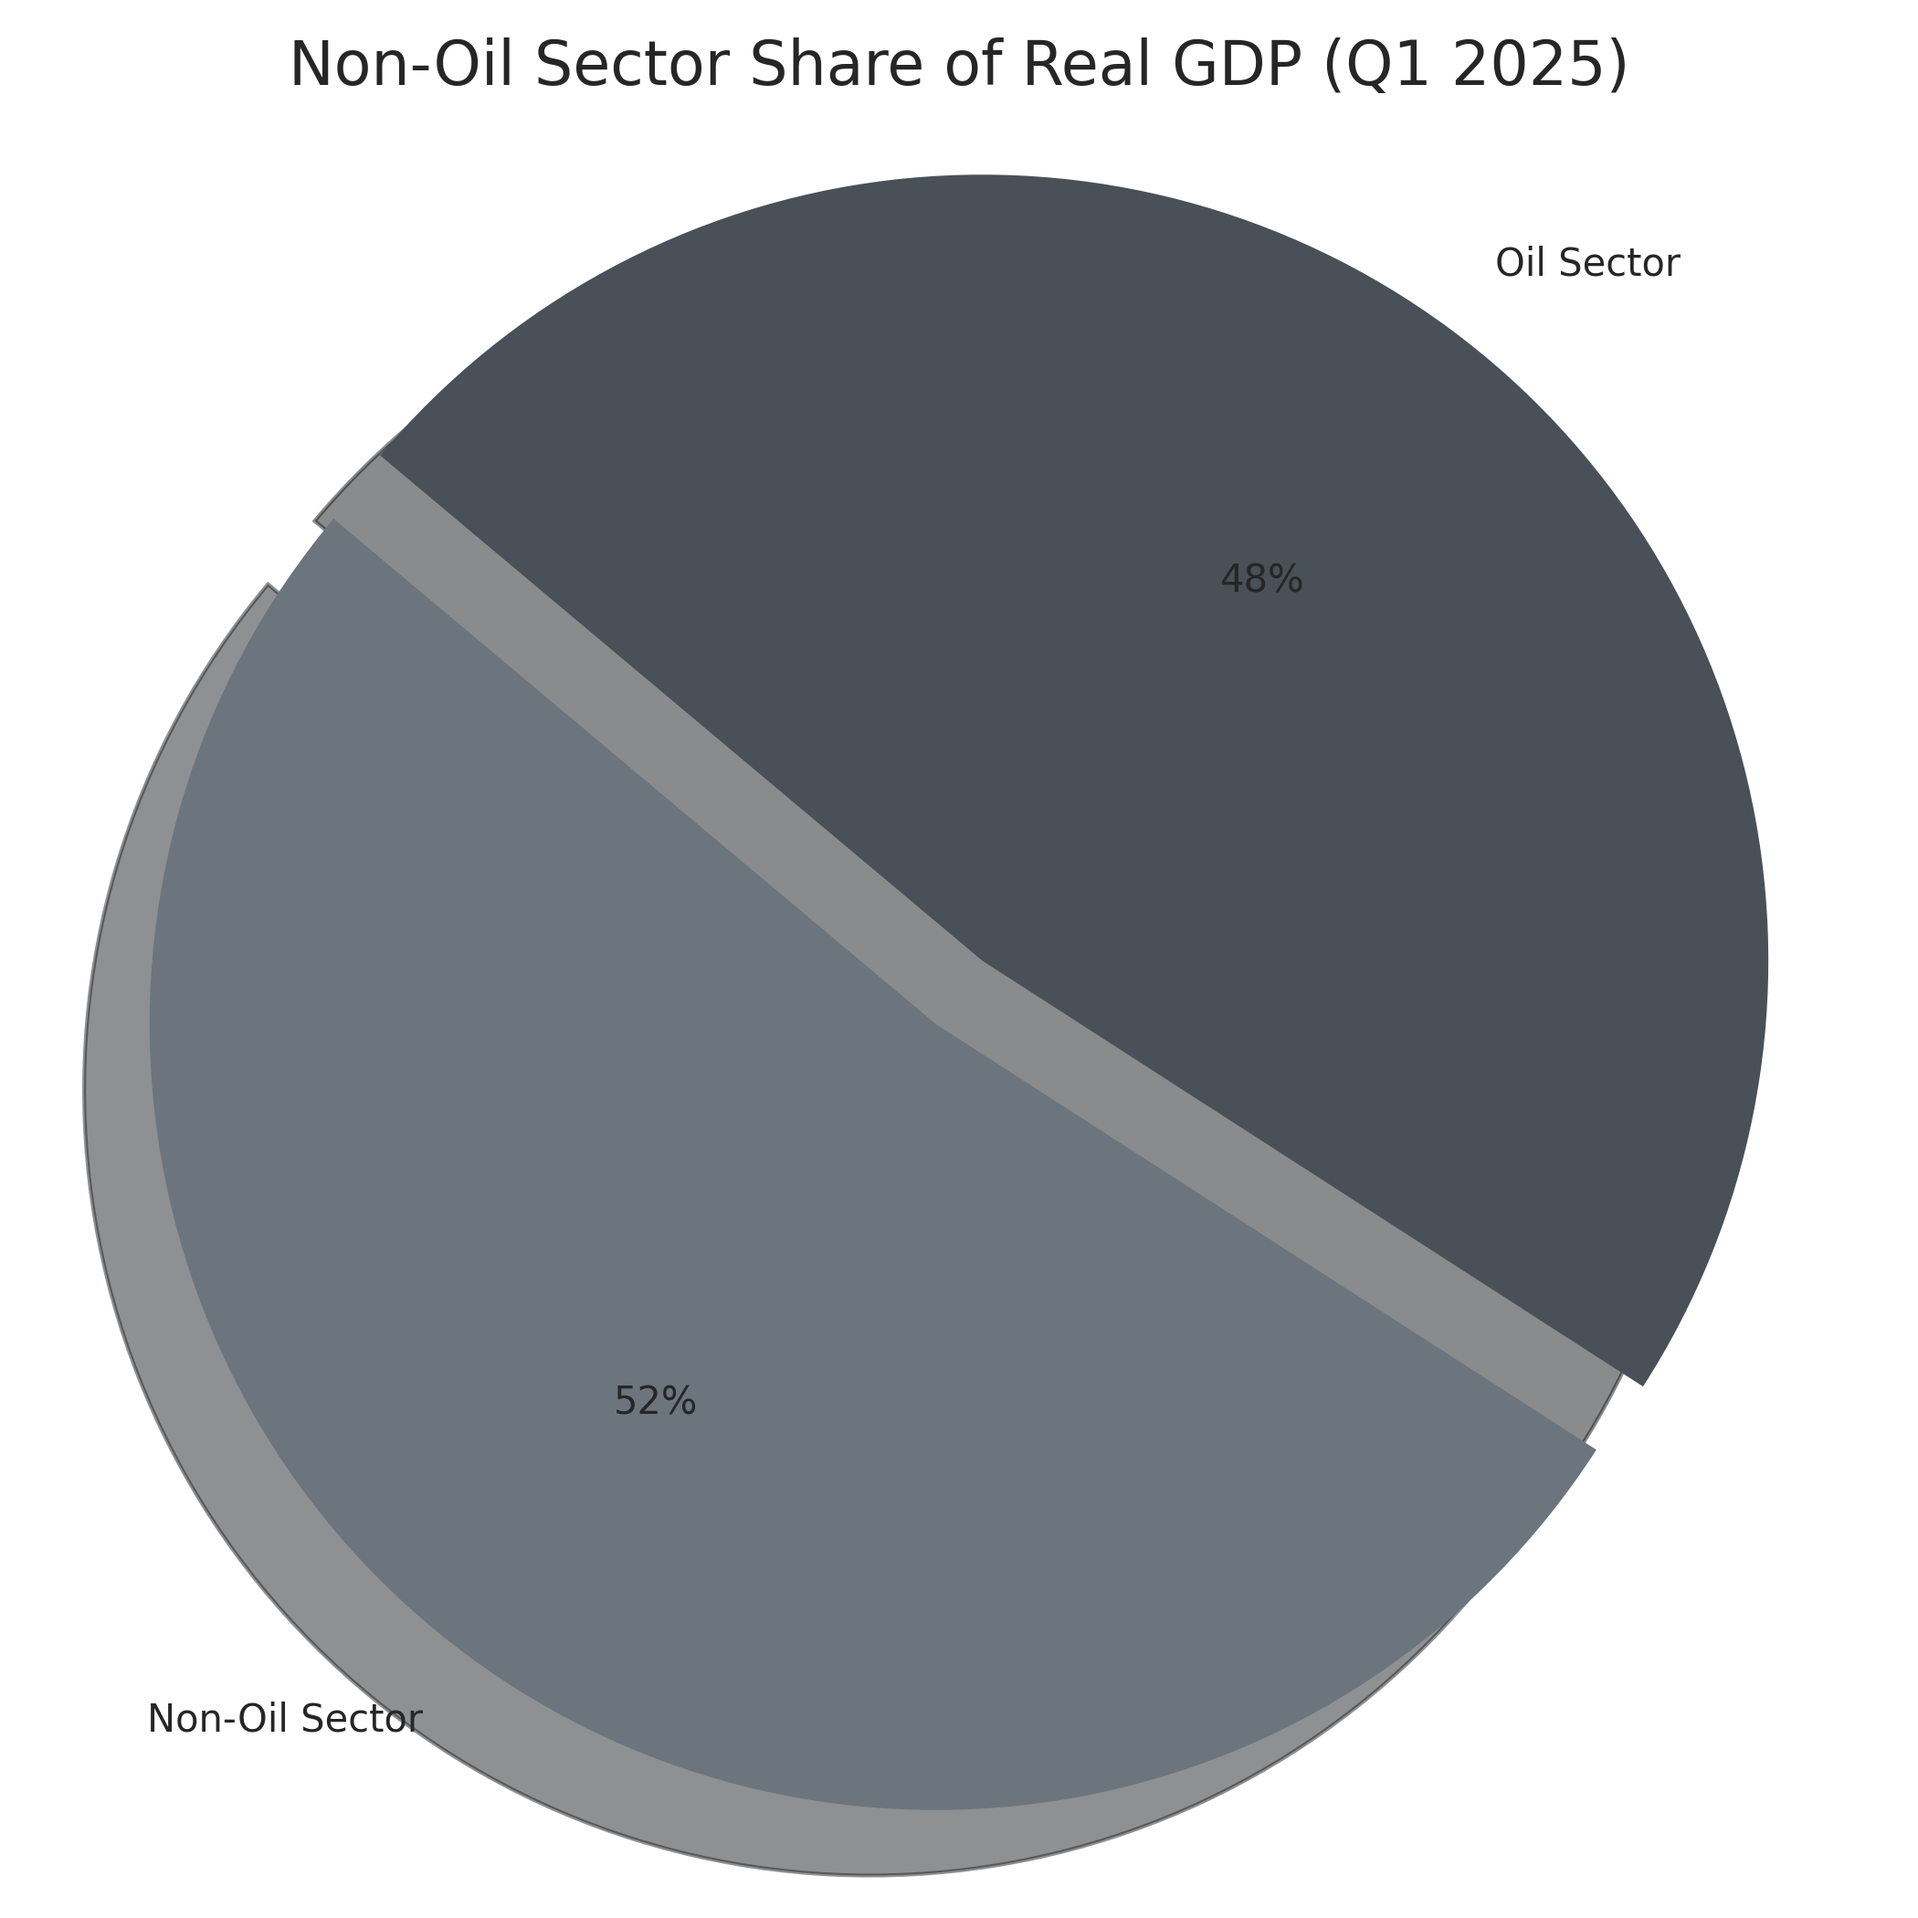
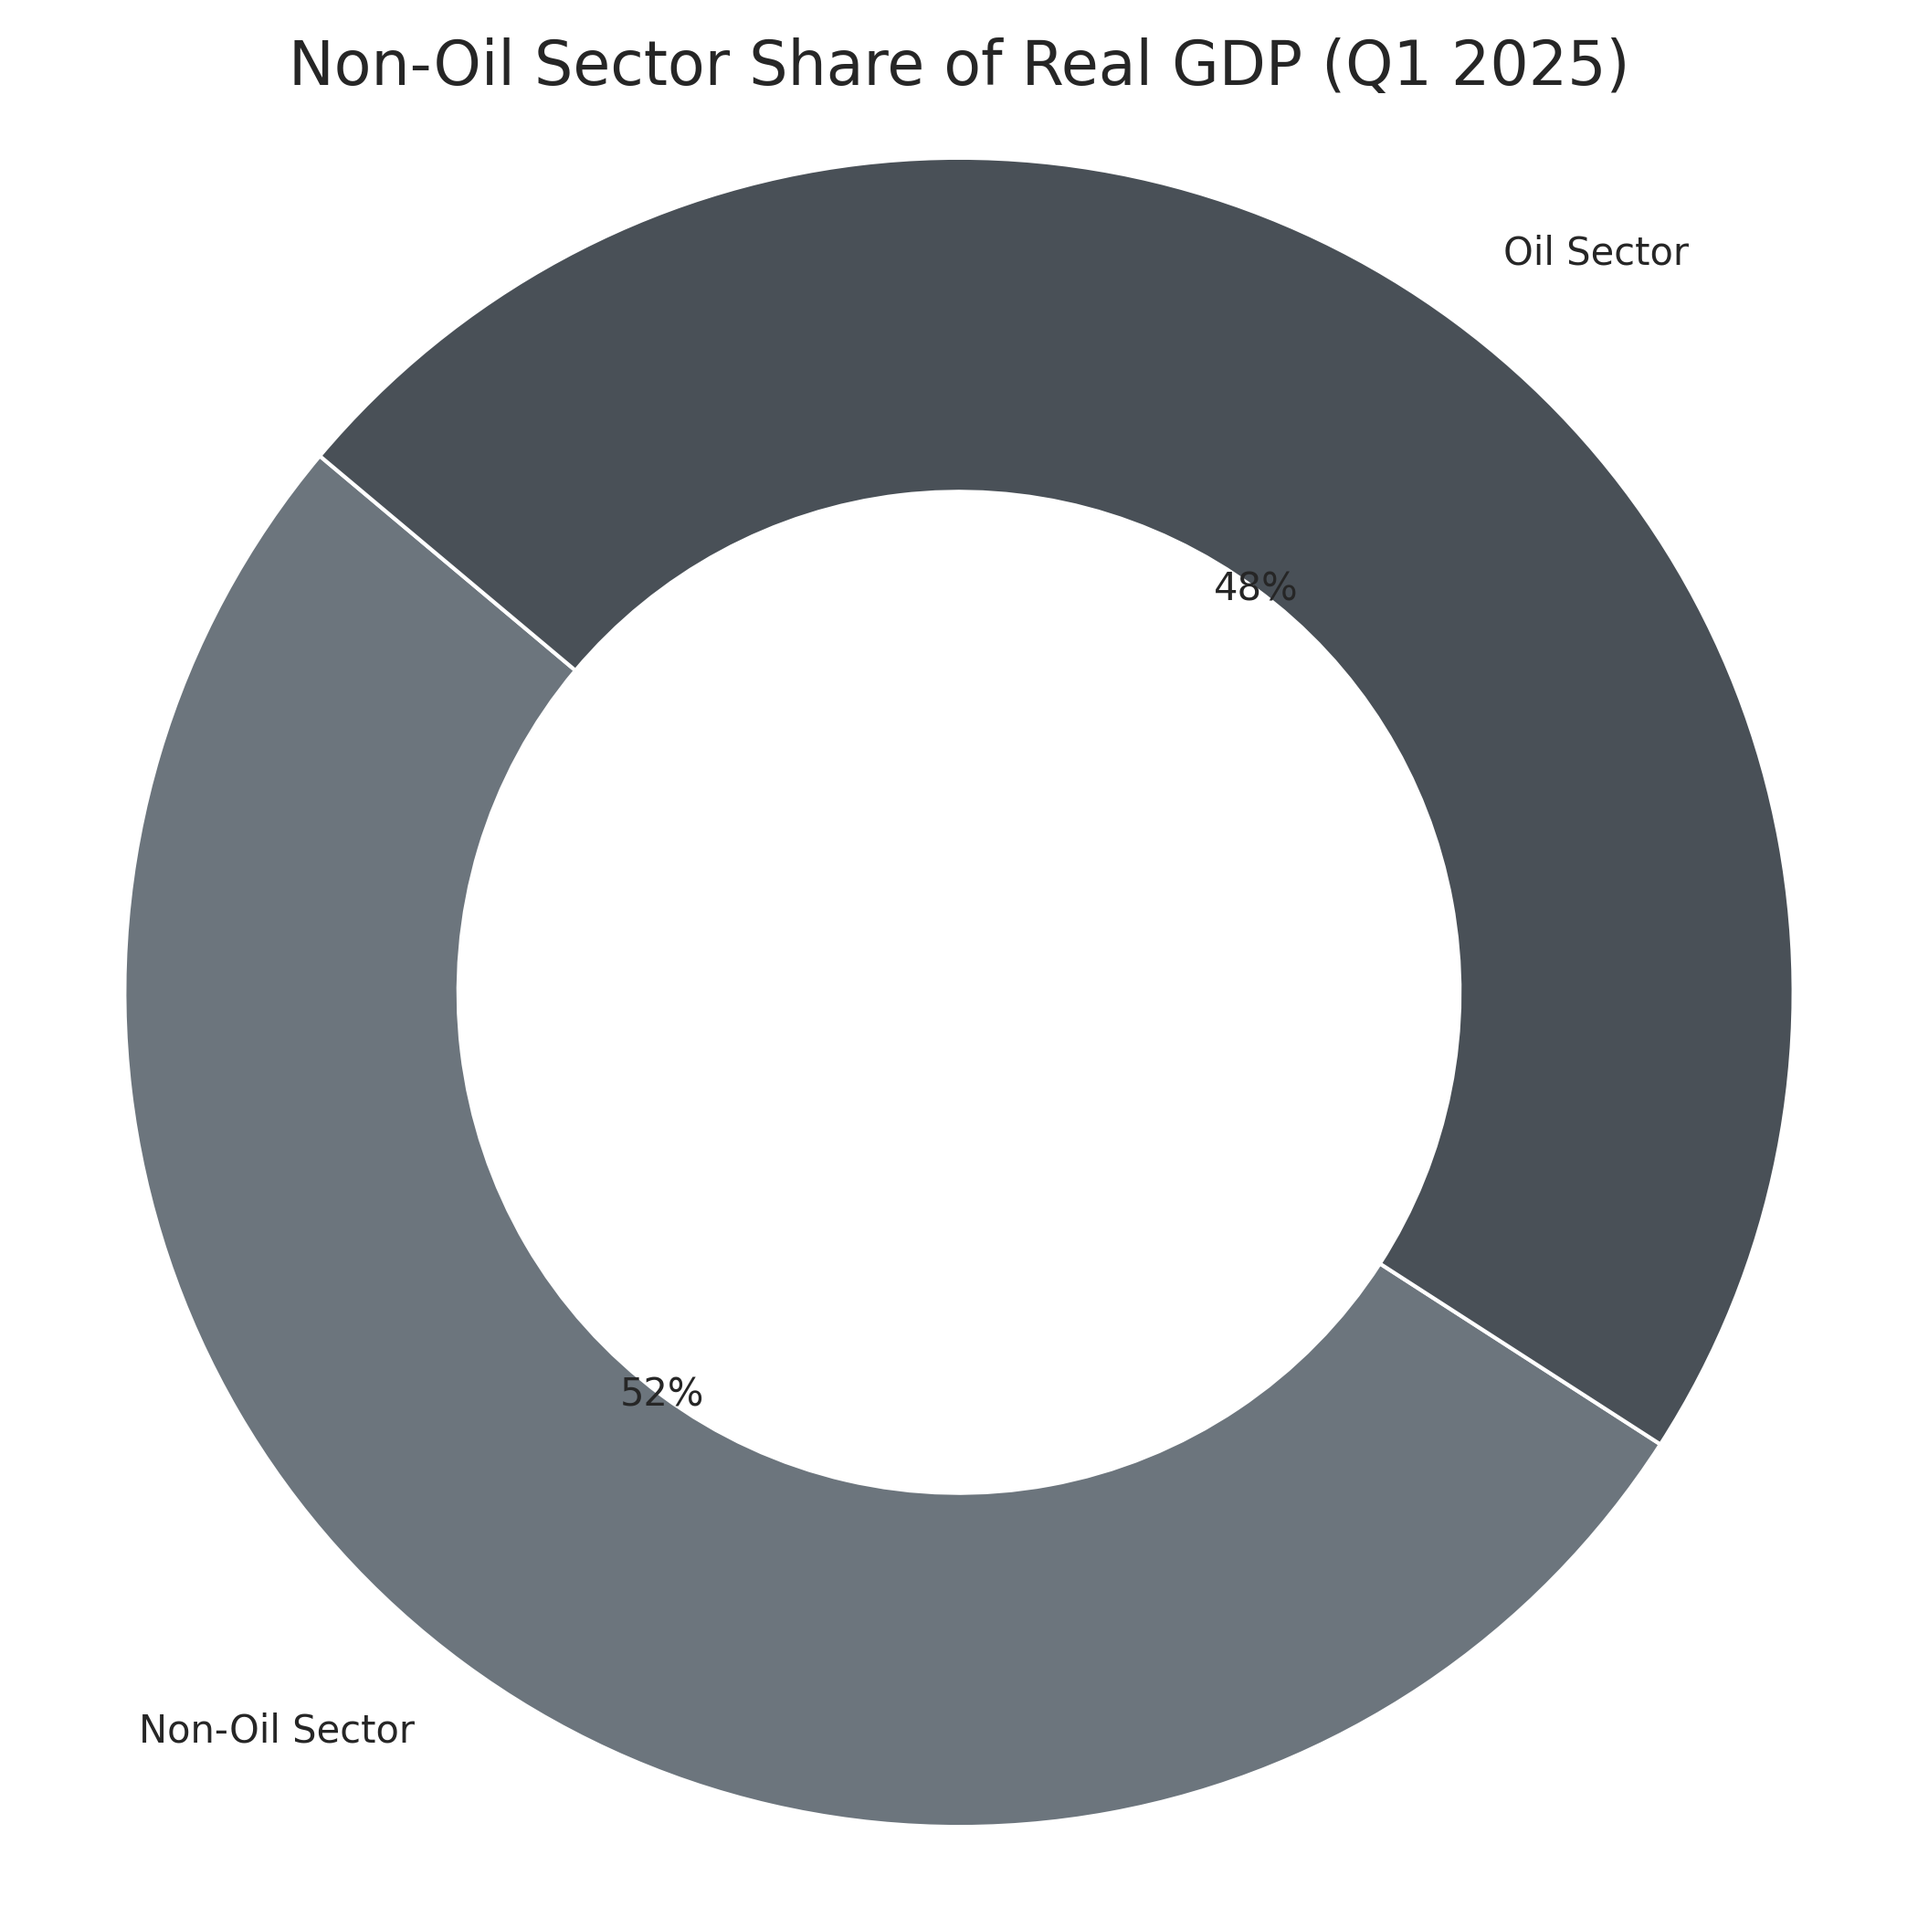
feat: Add private market players analysis and refine charts

diff --git a/public/KSA-healthcare/index.html b/public/KSA-healthcare/index.html
@@ -95,6 +95,159 @@
             </div>
         </section>
 
+    {/* Section 6.5: Key Private Market Players */}
+<section id="private-players">
+    <h2>Key Private Market Players: Saudi Arabia Healthcare Sector</h2>
+
+    <h3>Market Leaders by Revenue and Scale</h3>
+    <h4>Top 5 Private Healthcare Companies (2024 Rankings)</h4>
+    <table class="data-table">
+        <thead>
+            <tr>
+                <th>Rank</th>
+                <th>Company</th>
+                <th>2024 Revenue</th>
+                <th>Market Share</th>
+                <th>Key Strengths</th>
+            </tr>
+        </thead>
+        <tbody>
+            <tr>
+                <td>1</td>
+                <td><strong>Dr. Sulaiman Al Habib Medical Group (HMG)</strong></td>
+                <td>SAR 11.6B ($3.1B)</td>
+                <td>~35%</td>
+                <td>Market leader, rapid expansion</td>
+            </tr>
+            <tr>
+                <td>2</td>
+                <td><strong>Dallah Healthcare Company</strong></td>
+                <td>SAR 3.2B ($854M)</td>
+                <td>~12%</td>
+                <td>Strong profitability, Eastern acquisitions</td>
+            </tr>
+            <tr>
+                <td>3</td>
+                <td><strong>Fakeeh Care Group</strong></td>
+                <td>SAR 2.8B ($747M)</td>
+                <td>~10%</td>
+                <td>Integrated model, education focus</td>
+            </tr>
+            <tr>
+                <td>4</td>
+                <td><strong>Mouwasat Medical Services</strong></td>
+                <td>SAR 2.9B ($773M)</td>
+                <td>~9%</td>
+                <td>Eastern Province dominance</td>
+            </tr>
+            <tr>
+                <td>5</td>
+                <td><strong>Al Hammadi Holding</strong></td>
+                <td>SAR 1.8B ($480M)</td>
+                <td>~6%</td>
+                <td>Premium positioning, Riyadh focus</td>
+            </tr>
+        </tbody>
+    </table>
+    <p class="table-note"><em>*Note: Market share percentages based on private sector healthcare revenue.</em></p>
+
+    <hr class="section-divider" />
+
+    {/* Player Profiles */}
+    <div class="player-profile">
+        <h3>1. Dr. Sulaiman Al Habib Medical Group (HMG)</h3>
+        <h4>Financial Performance</h4>
+        <ul>
+            <li><strong>2024 Revenue:</strong> SAR 11.6 billion (+22% YoY)</li>
+            <li><strong>H1 2025 Revenue:</strong> SAR 6.54 billion (+28% YoY)</li>
+            <li><strong>Net Profit 2024:</strong> SAR 2.1 billion (+18% YoY)</li>
+            <li><strong>EBITDA Margin:</strong> 25.8% (Q1 2025)</li>
+        </ul>
+        <h4>Growth Strategy & Expansion</h4>
+        <ul>
+            <li><strong>Capacity Doubling:</strong> Adding 8 new hospitals post-2023 (+1,180 beds)</li>
+            <li><strong>New Facilities:</strong> North Riyadh Hospital (500 beds), Southwest Jeddah Hospital (330 beds)</li>
+        </ul>
+    </div>
+
+    <hr class="section-divider" />
+
+    <div class="player-profile">
+        <h3>2. Dallah Healthcare Company</h3>
+        <h4>Financial Performance</h4>
+        <ul>
+            <li><strong>2024 Revenue:</strong> SAR 3.2 billion (+8.9% YoY)</li>
+            <li><strong>Net Profit 2024:</strong> SAR 471 million (+31% YoY)</li>
+            <li><strong>Gross Profit Margin:</strong> 38.1% (highest in sector)</li>
+        </ul>
+        <h4>Strategic Acquisitions & Expansion</h4>
+        <ul>
+            <li><strong>Eastern Province Focus:</strong> Consolidating AlSalam and AlAhsa hospitals</li>
+            <li><strong>Capacity Expansion:</strong> ~80% increase over current capacity planned</li>
+        </ul>
+    </div>
+
+    <hr class="section-divider" />
+
+    <div class="player-profile">
+        <h3>3. Fakeeh Care Group</h3>
+        <h4>Financial Performance</h4>
+        <ul>
+            <li><strong>2024 Revenue:</strong> SAR 2.8 billion (+20% YoY)</li>
+            <li><strong>Net Profit 2024:</strong> SAR 264 million (+36% YoY)</li>
+        </ul>
+        <h4>Integrated Healthcare Model</h4>
+        <ul>
+            <li><strong>Three Pillars:</strong> Healthcare Services, Medical Education, Technology</li>
+            <li><strong>Educational Component:</strong> Fakeeh College with 2,190 student capacity</li>
+        </ul>
+    </div>
+
+    <hr class="section-divider" />
+
+    <div class="player-profile">
+        <h3>4. Mouwasat Medical Services</h3>
+        <h4>Financial Performance</h4>
+        <ul>
+            <li><strong>2024 Revenue:</strong> SAR 2.9 billion (+6.4% YoY)</li>
+            <li><strong>Net Profit 2024:</strong> SAR 646 million (-1.8% YoY)</li>
+            <li><strong>Gross Margin:</strong> 44.8%</li>
+        </ul>
+        <h4>Operational Metrics</h4>
+        <ul>
+            <li><strong>Regional Dominance:</strong> Highest margins in Eastern Province</li>
+            <li><strong>Expansion:</strong> Moving beyond stronghold to Riyadh, Jeddah, and Madinah</li>
+        </ul>
+    </div>
+
+    <hr class="section-divider" />
+
+    <div class="player-profile">
+        <h3>5. Al Hammadi Holding</h3>
+        <h4>Business Model</h4>
+        <ul>
+            <li><strong>Premium Positioning:</strong> Focus on Class A/A+/VIP patients in Riyadh</li>
+            <li><strong>Current Facilities:</strong> 600 beds, 220 clinics across two hospitals</li>
+        </ul>
+        <h4>Expansion Pipeline</h4>
+        <ul>
+            <li><strong>Hospital Development:</strong> 3 new hospitals by 2030 (+600 beds)</li>
+            <li><strong>Diversification:</strong> 35% stake in Sudair Pharmaceutical Company</li>
+        </ul>
+    </div>
+
+    <hr class="section-divider" />
+
+    <h3>Competitive Landscape Analysis</h3>
+    <h4>Key Investment Themes</h4>
+    <ul>
+        <li><strong>Privatization Beneficiaries:</strong> Companies positioned for government hospital management contracts.</li>
+        <li><strong>Medical Tourism:</strong> Players developing specialized international patient services.</li>
+        <li><strong>Digital Integration:</strong> Technology-enabled care delivery and patient experience.</li>
+        <li><strong>Consolidation Trends:</strong> Larger players are actively acquiring smaller regional operators.</li>
+    </ul>
+</section>
+
         <!-- Section 7: Regulatory & Workforce -->
         <section id="regulatory-workforce">
             <h2>Regulatory Framework and Workforce Dynamics</h2>

diff --git a/public/KSA-healthcare/css/page.css b/public/KSA-healthcare/css/page.css
@@ -98,3 +98,59 @@ strong {
 .summary-table tbody tr:nth-child(even) {
     background-color: #f8f9fa; /* Zebra striping */
 }
+
+    /* Styling for the new Key Players section */
+.data-table {
+    width: 100%;
+    border-collapse: collapse;
+    margin-top: 20px;
+    font-size: 0.95em; /* Slightly smaller for density */
+}
+
+.data-table th, .data-table td {
+    border: 1px solid #dee2e6;
+    padding: 10px 14px;
+    text-align: left;
+    vertical-align: top;
+}
+
+.data-table thead {
+    background-color: #e9ecef;
+    color: #495057;
+    font-weight: bold;
+}
+
+.data-table tbody tr:nth-child(even) {
+    background-color: #f8f9fa;
+}
+
+.table-note {
+    font-size: 0.9em;
+    color: #6c757d;
+    text-align: right;
+    margin-top: 5px;
+}
+
+.section-divider {
+    border: 0;
+    height: 1px;
+    background-color: #dee2e6;
+    margin: 40px 0;
+}
+
+.player-profile ul {
+    list-style-type: disc;
+    padding-left: 20px;
+    margin-top: 10px;
+}
+
+.player-profile ul li {
+    margin-bottom: 8px;
+}
+
+#private-players h4 {
+    text-transform: none; /* Override uppercase style for sub-headings here */
+    letter-spacing: normal;
+    font-style: italic;
+    color: #495057;
+}

diff --git a/public/KSA-healthcare/generate_charts.py b/public/KSA-healthcare/generate_charts.py
@@ -140,12 +140,11 @@ plt.tight_layout()
 plt.savefig(os.path.join(output_dir, 'saudization_targets.png'), dpi=300)
 plt.close(fig8)
 
-# --- Chart 9: Non-Oil GDP Share ---
+# --- Chart 9: Non-Oil GDP Share (2D Donut Chart) ---
 fig9, ax9 = plt.subplots(figsize=(7, 7))
 labels = 'Non-Oil Sector', 'Oil Sector'
 sizes = [52, 48]
-explode = (0.1, 0)
-ax9.pie(sizes, explode=explode, labels=labels, autopct='%1.f%%', shadow=True, startangle=140, colors=[main_color, secondary_color])
+ax9.pie(sizes, labels=labels, autopct='%1.f%%', startangle=140, colors=[main_color, secondary_color], wedgeprops=dict(width=0.4, edgecolor='w'))
 ax9.set_title('Non-Oil Sector Share of Real GDP (Q1 2025)', fontsize=16)
 ax9.axis('equal')
 plt.tight_layout()
